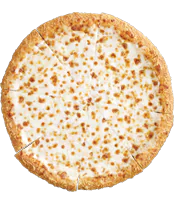
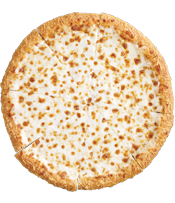
Fix broken images

diff --git a/content-food.html b/content-food.html
@@ -97,7 +97,7 @@
                         <table border=0 bgcolor=ecf0f1 width=100% cellpadding=15px>
                             <tr>
                                 <td align=center><font size=+2.5><b>Meat Lover's Pizza<sup>®</sup></b></font></td>
-                                <td align=center valign=middle colspan=2 rowspan=2><img src="img/food/cheese-pizza.png" height=150px></td>
+                                <td align=center valign=middle colspan=2 rowspan=2><img src="img/food/meat-lovers-pizza.png" height=150px></td>
                             </tr>
                             <tr>
                                 <td align=center>
